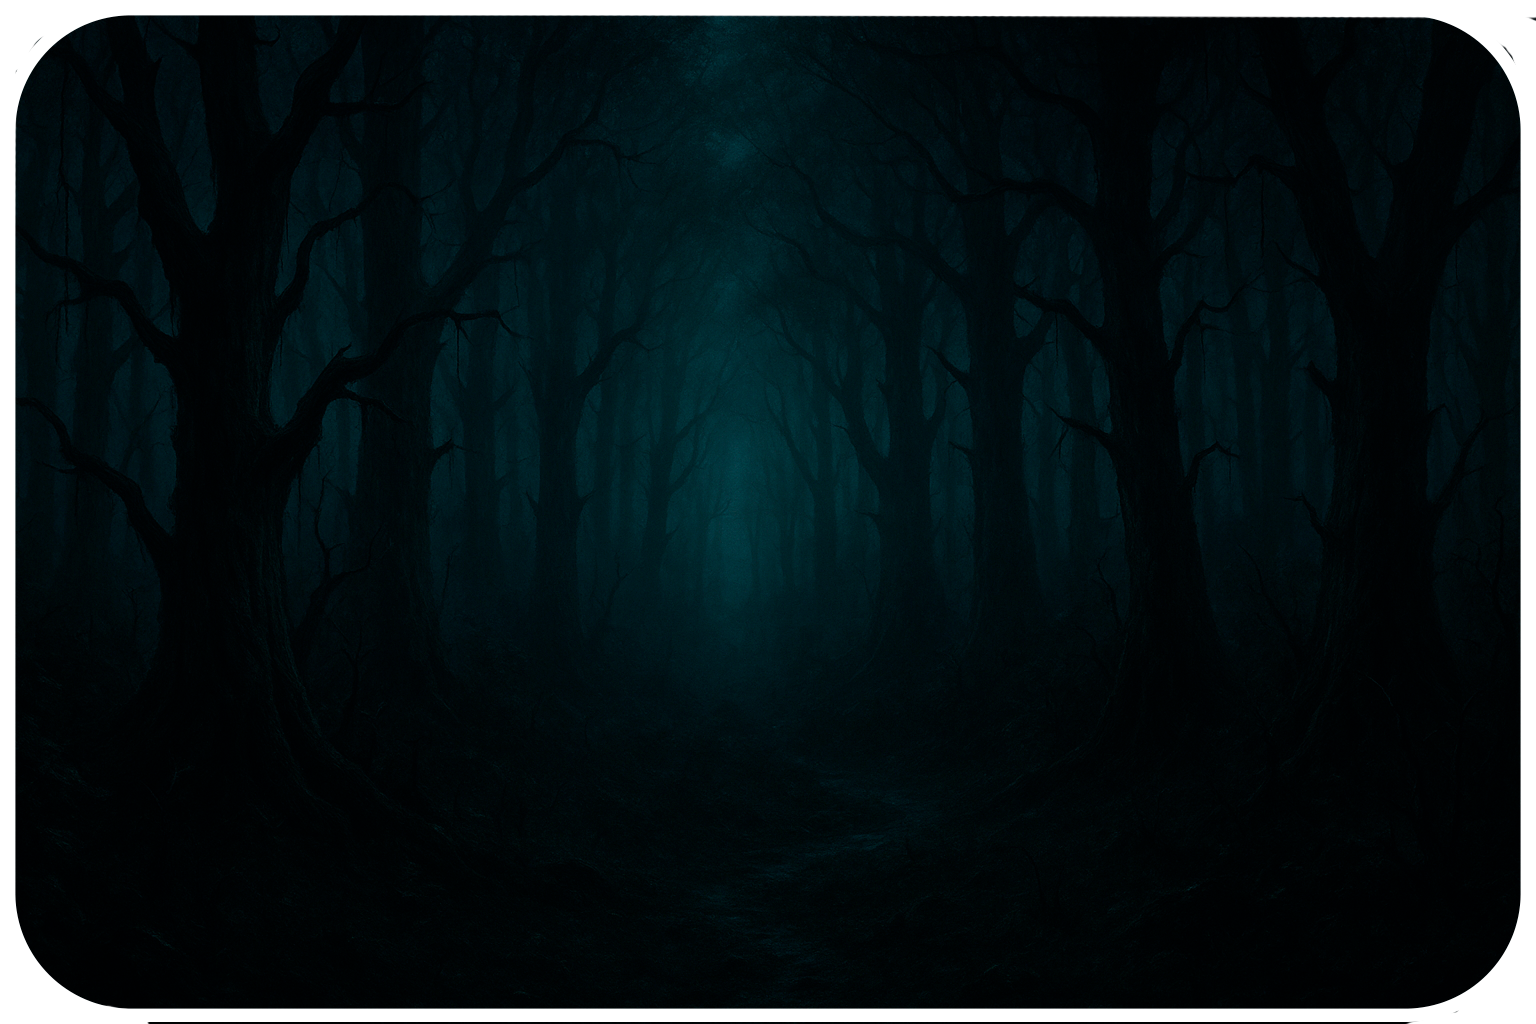
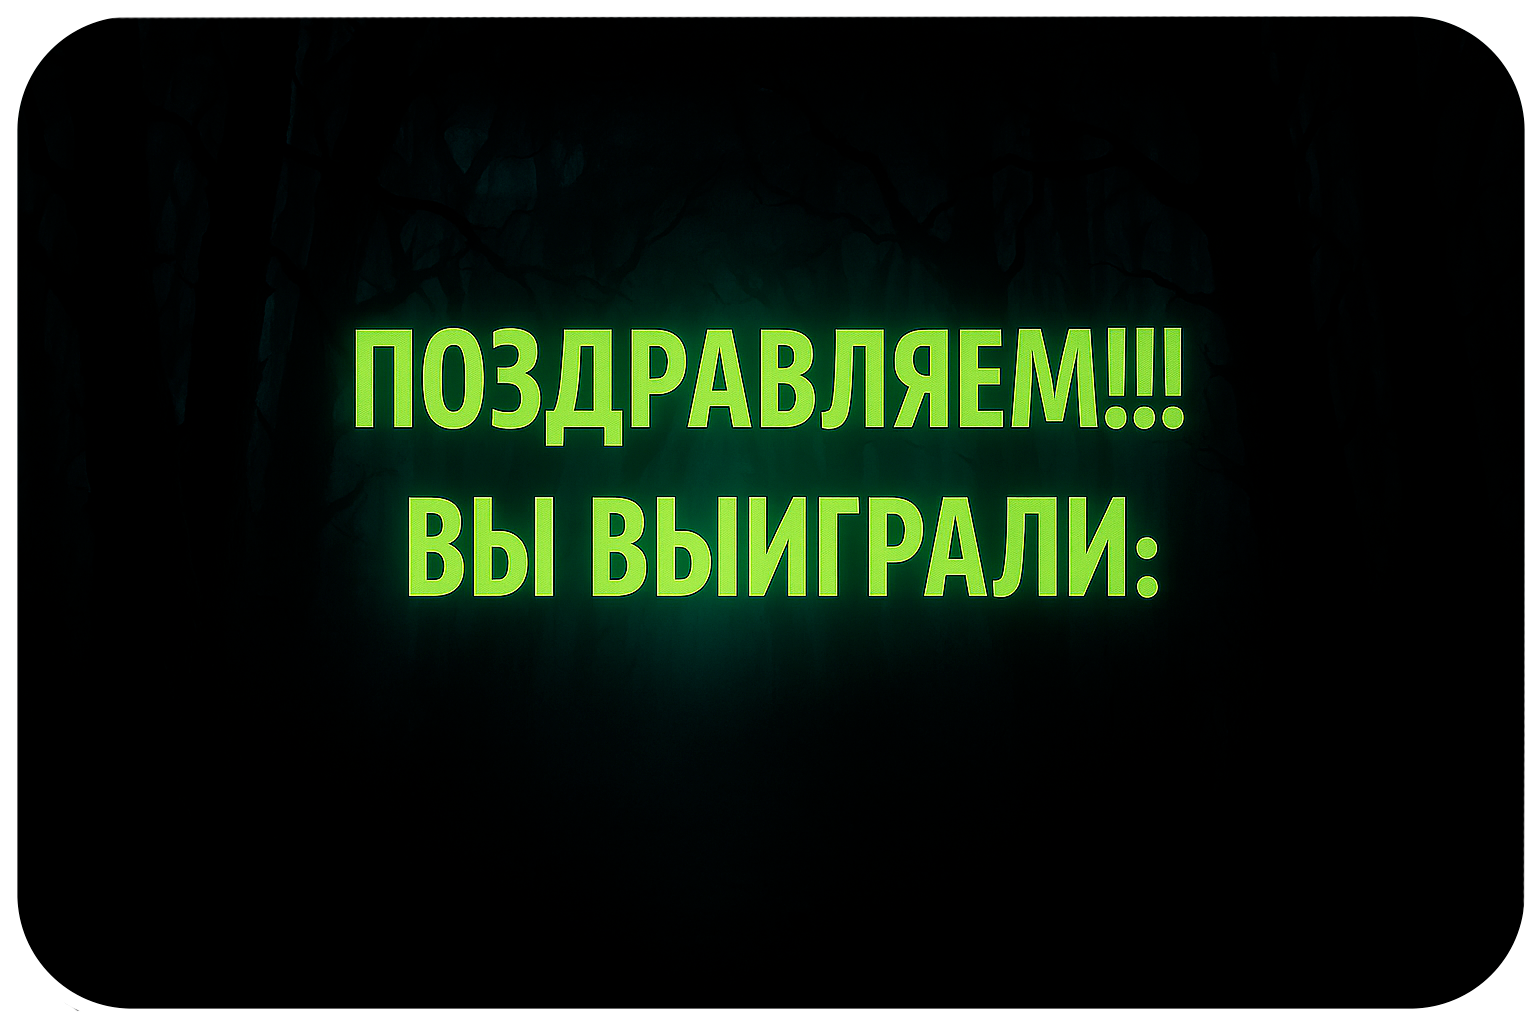
added animations

diff --git a/static/main.js b/static/main.js
@@ -157,7 +157,7 @@ window.addEventListener('DOMContentLoaded', async () => {
             {alias: 'offSwitch', src: '/static/img/offSwitch.png'},
             {alias: 'changeBet', src: '/static/img/changeBet.png'},
             {alias: 'youWonFreeSpins', src: '/static/img/youWonFreeSpins.png'},
-
+            {alias: 'winTable', src: '/static/img/winTable.png'},
 
 
 
@@ -184,6 +184,7 @@ window.addEventListener('DOMContentLoaded', async () => {
     const sfxOff = new PIXI.Sprite(PIXI.Assets.get('offSwitch'))
     const changeBet = new PIXI.Sprite(PIXI.Assets.get('changeBet'))
     const youWonFreeSpins = new PIXI.Sprite(PIXI.Assets.get('youWonFreeSpins'))
+    
     app.stage.addChild(backgroundContainer) // добавили новый контейнер на сцену
     backgroundContainer.addChildAt(background,0) // теперь пихаем в новый контейнер фон
 
@@ -2239,20 +2240,280 @@ async function spin() {
             setTimeout(()=>{
                 bonusMusic.stop()
                 music.play()
-                const winTable= new PIXI.Graphics()
-                graphics.beginFill(0x000000)
-                graphics.drawRect(0,0,app.screen.width,app.screen.height)
-                graphics.endFill()
-                gameConainter.addChild(graphics)
-                const winText = new PIXI.Text(`Вы выиграли ${bonusSpinPayout}!`, {fontSize: 100, fill: 0x000000})
+                const winContainer = new PIXI.Container()
+                app.stage.addChild(winContainer)
+                const winTable = new PIXI.Sprite(PIXI.Assets.get('winTable'))
+                winTable.width = app.screen.width / 1.8
+                winTable.scale.y = winTable.scale.x
+                winTable.x = app.screen.width / 2
+                winTable.y = app.screen.height / 2.2
+                winTable.anchor.set(0.5)
+                winTable.eventMode = 'static'
+                winTable.alpha = 1
+                const winText = new PIXI.Text(`${bonusSpinPayout}₽!`, {
+                    fontSize: app.screen.width / 20, 
+                    fill: 0xffffff,
+                    fontWeight: 'bold',
+                    fontFamily: 'Arial',
+                    align: 'center',
+                    padding: 10,
+                })
+                
+                winText.x = app.screen.width / 1.97
+                winText.y = app.screen.height / 1.75
+                winText.anchor.set(0.5)
+                winText.eventMode = 'none'
+                winText.alpha = 1
+
+                setTimeout(() => {
+                    winContainer.addChild(winTable)
+                    winTable.width = app.screen.width / 20
+                    winTable.scale.y = winTable.scale.x
+                    winContainer.addChild(winText)     
+                    winTable.alpha = 1
+                    
+                }, 2510)
+                setTimeout(() => {
+                    winTable.width = app.screen.width / 19.5
+                    winTable.scale.y = winTable.scale.x
+                }, 2520)
+                setTimeout(() => {
+                    winTable.width = app.screen.width / 19
+                    winTable.scale.y = winTable.scale.x
+                }, 2530)
+                setTimeout(() => {
+                    winTable.width = app.screen.width / 18.5
+                    winTable.scale.y = winTable.scale.x
+                }, 2540)
+                setTimeout(() => {
+                    winTable.width = app.screen.width / 18
+                    winTable.scale.y = winTable.scale.x
+                }, 2550)
+                setTimeout(() => {
+                    winTable.width = app.screen.width / 17.5
+                    winTable.scale.y = winTable.scale.x
+                }, 2560)
+                setTimeout(() => {
+                    winTable.width = app.screen.width / 17
+                    winTable.scale.y = winTable.scale.x
+                }, 2570)
+                setTimeout(() => {
+                    winTable.width = app.screen.width / 16.5
+                    winTable.scale.y = winTable.scale.x
+                }, 2580)
+                setTimeout(() => {
+                    winTable.width = app.screen.width / 16
+                    winTable.scale.y = winTable.scale.x
+                }, 2590)
+                setTimeout(() => {
+                    winTable.width = app.screen.width / 15.5
+                    winTable.scale.y = winTable.scale.x
+                }, 2600)
+                setTimeout(() => {
+                    winTable.width = app.screen.width / 15
+                    winTable.scale.y = winTable.scale.x
+                }, 2610)
+                setTimeout(() => {
+                    winTable.width = app.screen.width / 14.5
+                    winTable.scale.y = winTable.scale.x
+                }, 2620)
+                setTimeout(() => {
+                    winTable.width = app.screen.width / 14
+                    winTable.scale.y = winTable.scale.x
+                }, 2630)
+                setTimeout(() => {
+                    winTable.width = app.screen.width / 13.5
+                    winTable.scale.y = winTable.scale.x
+                }, 2640)
+                setTimeout(() => {
+                    winTable.width = app.screen.width / 13
+                    winTable.scale.y = winTable.scale.x
+                }, 2650)
+                setTimeout(() => {
+                    winTable.width = app.screen.width / 12.5
+                    winTable.scale.y = winTable.scale.x
+                }, 2660)
+                setTimeout(() => {
+                    winTable.width = app.screen.width / 12
+                    winTable.scale.y = winTable.scale.x
+                }, 2670)
+                setTimeout(() => {
+                    winTable.width = app.screen.width / 11.5
+                    winTable.scale.y = winTable.scale.x
+                }, 2680)
+                setTimeout(() => {
+                    winTable.width = app.screen.width / 11
+                    winTable.scale.y = winTable.scale.x
+                }, 2690)
+                setTimeout(() => {
+                    winTable.width = app.screen.width / 10.5
+                    winTable.scale.y = winTable.scale.x
+                }, 2700)
+                setTimeout(() => {
+                    winTable.width = app.screen.width / 10
+                    winTable.scale.y = winTable.scale.x
+                }, 2710)
+                setTimeout(() => {
+                    winTable.width = app.screen.width / 9.5
+                    winTable.scale.y = winTable.scale.x
+                }, 2720)
+                setTimeout(() => {
+                    winTable.width = app.screen.width / 9
+                    winTable.scale.y = winTable.scale.x
+                }, 2730)
+                setTimeout(() => {
+                    winTable.width = app.screen.width / 8.5
+                    winTable.scale.y = winTable.scale.x
+                }, 2740)
+                setTimeout(() => {
+                    winTable.width = app.screen.width / 8
+                    winTable.scale.y = winTable.scale.x
+                }, 2750)
+                setTimeout(() => {
+                    winTable.width = app.screen.width / 7.5
+                    winTable.scale.y = winTable.scale.x
+                }, 2760)
+                setTimeout(() => {
+                    winTable.width = app.screen.width / 7
+                    winTable.scale.y = winTable.scale.x
+                }, 2770)
+                setTimeout(() => {
+                    winTable.width = app.screen.width / 6.5
+                    winTable.scale.y = winTable.scale.x
+                }, 2780)
+                setTimeout(() => {
+                    winTable.width = app.screen.width / 6
+                    winTable.scale.y = winTable.scale.x
+                }, 2790)
+                setTimeout(() => {
+                    winTable.width = app.screen.width / 5.5
+                    winTable.scale.y = winTable.scale.x
+                }, 2800)
+                setTimeout(() => {
+                    winTable.width = app.screen.width / 5
+                    winTable.scale.y = winTable.scale.x
+                }, 2810)
+                setTimeout(() => {
+                    winTable.width = app.screen.width / 4.5
+                    winTable.scale.y = winTable.scale.x
+                }, 2820)
+                setTimeout(() => {
+                    winTable.width = app.screen.width / 4
+                    winTable.scale.y = winTable.scale.x
+                }, 2830)
+                setTimeout(() => {
+                    winTable.width = app.screen.width / 3.5
+                    winTable.scale.y = winTable.scale.x
+                }, 2840)
+                setTimeout(() => {
+                    winTable.width = app.screen.width / 3
+                    winTable.scale.y = winTable.scale.x
+                }, 2850)
+                setTimeout(() => {
+                    winTable.width = app.screen.width / 2.5
+                    winTable.scale.y = winTable.scale.x
+                }, 2860)
+                setTimeout(() => {
+                    winTable.width = app.screen.width / 2
+                    winTable.scale.y = winTable.scale.x
+                }, 2870)
+                setTimeout(() => {
+                    winTable.width = app.screen.width / 1.9
+                    winTable.scale.y = winTable.scale.x
+                }, 2880)
+                setTimeout(() => {
+                    winTable.width = app.screen.width / 1.8
+                    winTable.scale.y = winTable.scale.x
+                    winTable.eventMode = 'static'
+                }, 2890)
+                winTable.on('pointerdown', () => {
+                    setTimeout(() => {
+                        winTable.alpha = 0.95
+                        winText.alpha = 0.95
+                    }, 50)
+                    setTimeout(() => {
+                        winTable.alpha = 0.9
+                        winText.alpha = 0.9
+                    }, 100)
+                    setTimeout(() => {
+                        winTable.alpha = 0.85
+                        winText.alpha = 0.85
+                    }, 150)
+                    setTimeout(() => {
+                        winTable.alpha = 0.8
+                        winText.alpha = 0.8
+                    }, 200)
+                    setTimeout(() => {
+                        winTable.alpha = 0.75
+                        winText.alpha = 0.75
+                    }, 250)
+                    setTimeout(() => {
+                        winTable.alpha = 0.7
+                        winText.alpha = 0.7
+                    }, 300)
+                    setTimeout(() => {
+                        winTable.alpha = 0.65
+                        winText.alpha = 0.65
+                    }, 350)
+                    setTimeout(() => {
+                        winTable.alpha = 0.6
+                        winText.alpha = 0.6
+                    }, 400)
+                    setTimeout(() => {
+                        winTable.alpha = 0.55
+                        winText.alpha = 0.55
+                    }, 450)
+                    setTimeout(() => {
+                        winTable.alpha = 0.5
+                        winText.alpha = 0.5
+                    }, 500)
+                    setTimeout(() => {
+                        winTable.alpha = 0.45
+                        winText.alpha = 0.45
+                    }, 550)
+                    setTimeout(() => {
+                        winTable.alpha = 0.4
+                        winText.alpha = 0.4
+                    }, 600)
+                    setTimeout(() => {
+                        winTable.alpha = 0.35
+                        winText.alpha = 0.35
+                    }, 650)
+                    setTimeout(() => {
+                        winTable.alpha = 0.3
+                        winText.alpha = 0.3
+                    }, 700)
+                    setTimeout(() => {
+                        winTable.alpha = 0.25
+                        winText.alpha = 0.25
+                    }, 750)
+                    setTimeout(() => {
+                        winTable.alpha = 0.2
+                        winText.alpha = 0.2
+                    }, 800)
+                    setTimeout(() => {
+                        winTable.alpha = 0.15
+                        winText.alpha = 0.15
+                    }, 850)
+                    setTimeout(() => {
+                        winTable.alpha = 0.1
+                        winText.alpha = 0.1
+                    }, 900)
+                    setTimeout(() => {
+                        winTable.alpha = 0.05
+                        winText.alpha = 0.05
+                    }, 950)
+                    setTimeout(() => {
+                        winContainer.removeChild(winTable)
+                        winContainer.removeChild(winText)
+                    }, 1000)
+                })
             },36000)
+            
+            
+
             }),3500)
            
-            
-           
-            
-            
-            
 
         }
 }
